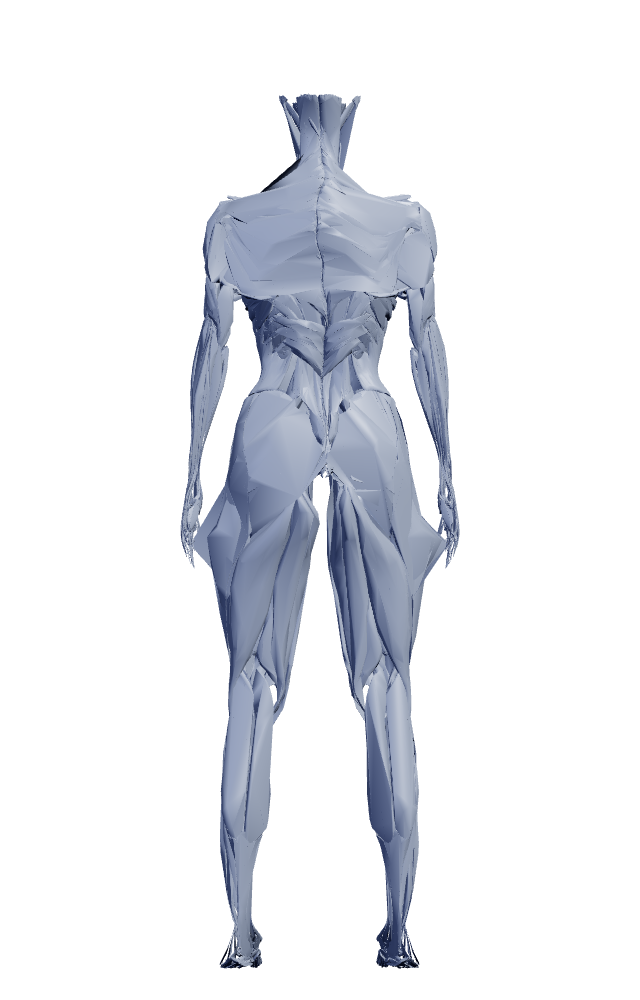
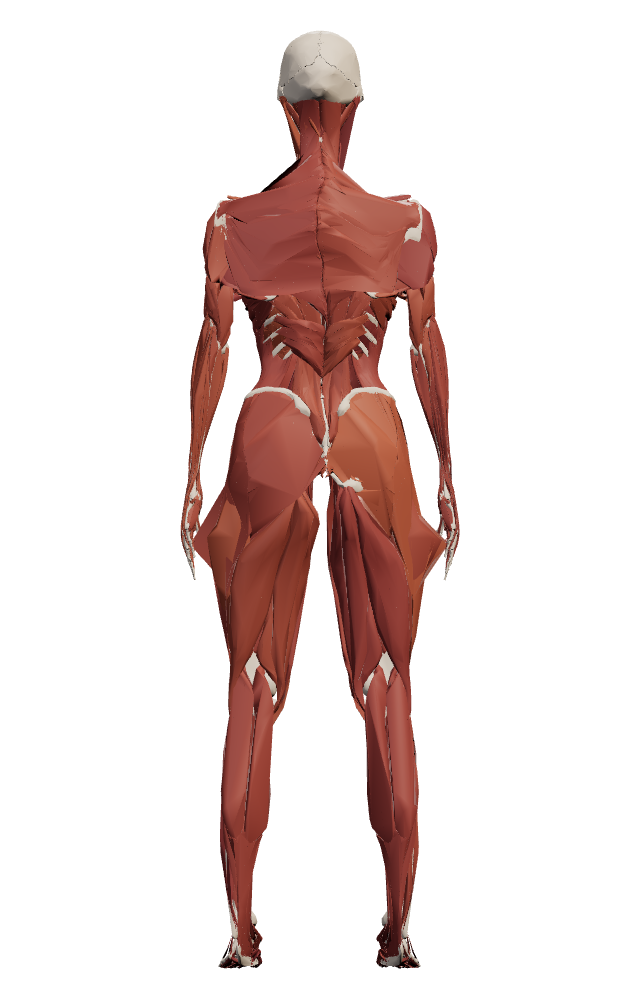
Figura de anatomía más real en Monitoreo y en la guía de la banda
- Capa base re-dibujada: músculos en color natural, esqueleto marfil donde asoma
  (cráneo, rodillas, manos, pies) y luz de estudio. Máscaras sin cambios.
- La figura femenina del atlas viene deformada: la 2D usa la masculina para todos.
- render-anatomia.html con el estilo nuevo.

Claude-Session: https://claude.ai/code/session_01SLsSoYHpjWGpCWsyzmzaVo

Changed region(s): [[0.2812, 0.031, 0.7188, 0.992]]

diff --git a/astra-fit/publicar/herramientas/render-anatomia.html b/astra-fit/publicar/herramientas/render-anatomia.html
@@ -19,20 +19,27 @@ const modelos = {};
 async function cargar(sexo) {
   if (modelos[sexo]) return modelos[sexo];
   const g = await new Promise((ok, mal) => new GLTFLoader().setMeshoptDecoder(MeshoptDecoder).load('/assets/anatomy-' + (sexo === 'F' ? 'female' : 'male') + '.glb', ok, undefined, mal));
-  const raiz = g.scene, mallas = [];
+  const raiz = g.scene, mallas = [], huesos = [];
   raiz.updateMatrixWorld(true);
   raiz.traverse((o) => {
     if (!o.isMesh) return;
     let sis = ''; for (let n = o; n; n = n.parent) if (['skin', 'skeleton', 'muscles', 'organs', 'vessels', 'nerves'].includes(n.name)) { sis = n.name; break; }
+    if (sis === 'skeleton') { if (!o.geometry.attributes.normal) o.geometry.computeVertexNormals(); o.visible = false; huesos.push(o); return; }
     if (sis !== 'muscles') { o.visible = false; return; }
     if (!o.geometry.attributes.normal) o.geometry.computeVertexNormals();
     const nombre = o.name.replace(/_\d+$/, ''), pref = Object.keys(GRUPO_DE).find((k) => nombre.startsWith(k));
     mallas.push({ o, grupo: pref ? GRUPO_DE[pref] : null });
   });
-  modelos[sexo] = { raiz, mallas }; return modelos[sexo];
+  // Color natural de cada músculo: el mismo tono con una leve variación, para que se distingan unos de otros
+  mallas.forEach((m, i) => { const r = Math.sin(i * 12.9898) * 43758.5453; const k = (r - Math.floor(r)) * 2 - 1;
+    m.natural = new THREE.MeshStandardMaterial({ color: new THREE.Color(0xa65a4e).offsetHSL(k * .012, k * .05, k * .035), roughness: .55, metalness: 0 }); });
+  modelos[sexo] = { raiz, mallas, huesos }; return modelos[sexo];
 }
 
+// Capa base "realista": músculos en su color natural (rojo apagado) y esqueleto marfil donde asoma (cráneo, manos, pies,
+// rodillas). Así la figura se lee como un atlas de anatomía y no como un maniquí. Las máscaras no cambian.
 const matBase = new THREE.MeshStandardMaterial({ color: 0x9eaac2, roughness: .46, metalness: .08 });
+const matHueso = new THREE.MeshStandardMaterial({ color: 0xe6dccb, roughness: .62, metalness: 0 });
 const matMasc = new THREE.MeshBasicMaterial({ color: 0xffffff });
 
 // Músculos de la escala ERDM-A. El modelo junta bíceps y tríceps ("upper_arm") y gastrocnemio y sóleo ("calf"):
@@ -40,7 +47,7 @@ const matMasc = new THREE.MeshBasicMaterial({ color: 0xffffff });
 // (arriba gastrocnemio, abajo sóleo), que es una aproximación visual, no anatómica exacta.
 const ERDM = { biceps: ['brazo'], triceps: ['brazo'], antebrazo: ['antebrazo'], cuadriceps: ['quad'], gastrocnemio: ['gastro', 'arriba'], soleo: ['gastro', 'abajo'] };
 window.dibujar = async (sexo, vista, modoPedido) => {      // modo: 'base', un grupo ('quad', 'glute', 'gastro', 'back', 'brazo', 'antebrazo') o un músculo de ERDM
-  const { raiz, mallas } = await cargar(sexo);
+  const { raiz, mallas, huesos } = await cargar(sexo);
   const [modo, mitad] = ERDM[modoPedido] || [modoPedido];
   renderer.clippingPlanes = [];
   if (mitad) {   // plano horizontal a media altura de la pantorrilla
@@ -49,19 +56,22 @@ window.dibujar = async (sexo, vista, modoPedido) => {      // modo: 'base', un g
     renderer.clippingPlanes = [mitad === 'arriba' ? new THREE.Plane(new THREE.Vector3(0, 1, 0), -y) : new THREE.Plane(new THREE.Vector3(0, -1, 0), y)];
   }
   const escena = new THREE.Scene(); escena.add(raiz);
-  mallas.forEach(({ o, grupo }) => { o.visible = modo === 'base' ? true : grupo === modo; o.material = modo === 'base' ? matBase : matMasc; });
+  mallas.forEach((m) => { const { o, grupo } = m; o.visible = modo === 'base' ? true : grupo === modo; o.material = modo === 'base' ? m.natural : matMasc; });
+  huesos.forEach((o) => { o.material = matHueso; o.visible = false; });
   // Encuadre fijo: el de todos los músculos, igual en todas las imágenes
   const caja = new THREE.Box3(); mallas.forEach(({ o }) => { o.visible = true; });
   caja.setFromObject(raiz); mallas.forEach(({ o, grupo }) => { o.visible = modo === 'base' ? true : grupo === modo; });
+  if (modo === 'base') huesos.forEach((o) => { o.visible = true; });
   const centro = caja.getCenter(new THREE.Vector3()), alto = (caja.max.y - caja.min.y) * 1.06, ancho = alto * (W / H);
   const cam = new THREE.OrthographicCamera(-ancho / 2, ancho / 2, alto / 2, -alto / 2, .01, 100);
   const lado = vista === 'back' ? -1 : 1;
   cam.position.set(centro.x, centro.y, centro.z + lado * 10); cam.lookAt(centro.x, centro.y, centro.z);
   if (modo === 'base') {
-    escena.add(new THREE.HemisphereLight(0xffffff, 0x4d587a, .62));
-    const clave = new THREE.DirectionalLight(0xffffff, 3.0); clave.position.set(-2.5, 4, lado * 4); escena.add(clave);
-    const relleno = new THREE.DirectionalLight(0xa9bcff, .55); relleno.position.set(3, 1, lado * 3); escena.add(relleno);
-    const borde = new THREE.DirectionalLight(0xdfe8ff, 1.5); borde.position.set(0, 2, -lado * 5); escena.add(borde);
+    // Luz de estudio: principal cálida arriba a la izquierda, relleno frío suave y un contorno por detrás
+    escena.add(new THREE.HemisphereLight(0xfff6ee, 0x3a3030, .75));
+    const clave = new THREE.DirectionalLight(0xfff1e6, 2.6); clave.position.set(-2.5, 4, lado * 4); escena.add(clave);
+    const relleno = new THREE.DirectionalLight(0xdfe8ff, .55); relleno.position.set(3, 1, lado * 3); escena.add(relleno);
+    const borde = new THREE.DirectionalLight(0xffffff, 1.6); borde.position.set(0, 2, -lado * 5); escena.add(borde);
   }
   renderer.render(escena, cam);
   escena.remove(raiz);

diff --git a/astra-fit/apps-script/SeccionMonitoreo.html b/astra-fit/apps-script/SeccionMonitoreo.html
@@ -136,11 +136,15 @@
   let chipsY = {};          // centro de cada etiqueta, en unidades del SVG (lo fija acomodarChips)
   const guias = {};         // línea punteada de cada músculo hacia su etiqueta
   const extremos = {};      // dónde está la luz del sensor de cada músculo (unidades del SVG)
-  window.FiguraMon = { BASE_IMG, BANDAS, MUSCULOS, ARCHIVO_VISTA, COLOR_RIESGO, nivel: (g) => nivelDe(g).nivel };
+  /* Figura de anatomía: la misma para todos. El modelo femenino del atlas (open-anatomy-3d) trae los muslos y los hombros
+     deformados, así que se usa la figura masculina, que es la de referencia de los atlas. sexoFigura solo recuerda para
+     qué astronauta se dibujó. */
+  const FIGURA = 'M';
+  window.FiguraMon = { BASE_IMG, BANDAS, MUSCULOS, ARCHIVO_VISTA, COLOR_RIESGO, FIGURA, nivel: (g) => nivelDe(g).nivel };
 
   function dibujarCuerpo(sexo) {
-    const sx = String(sexo).toUpperCase() === 'F' ? 'F' : 'M', p = sx.toLowerCase();
-    sexoFigura = sx;
+    const sx = FIGURA, p = sx.toLowerCase();
+    sexoFigura = String(sexo).toUpperCase() === 'F' ? 'F' : 'M';
     const svg = $('mon-svg');
     svg.innerHTML = '';
     const defs = el('defs', {}); svg.appendChild(defs);
@@ -197,7 +201,7 @@
     const k = H / 580;   // píxeles por unidad del SVG
     ['anterior', 'posterior'].forEach((vista) => {
       const chips = Object.entries(MUSCULOS).filter(([, m]) => m.vista === vista)
-        .map(([g, m]) => ({ g, n: document.querySelector(`.mon-chip[data-grupo="${g}"]`), y: aY(BANDAS[sexoFigura][m.mascara].y) * k }))
+        .map(([g, m]) => ({ g, n: document.querySelector(`.mon-chip[data-grupo="${g}"]`), y: aY(BANDAS[FIGURA][m.mascara].y) * k }))
         .sort((p, q) => p.y - q.y);
       chips.forEach((c) => { c.h = c.n.offsetHeight; });
       let abajo = -Infinity;

diff --git a/astra-fit/apps-script/SeccionSensores.html b/astra-fit/apps-script/SeccionSensores.html
@@ -148,7 +148,7 @@
     const svg = $('guia-svg'), F = window.FiguraMon;
     svg.querySelectorAll(':scope > :not(desc)').forEach((n) => n.remove());
     if (!F) return;
-    const m = F.MUSCULOS[grupo], sx = String((Sesion.astronauta || {}).sexo).toUpperCase() === 'F' ? 'F' : 'M', p = sx.toLowerCase();
+    const m = F.MUSCULOS[grupo], sx = F.FIGURA || 'M', p = sx.toLowerCase();
     const b = F.BANDAS[sx][m.mascara];
     // Coordenadas de la imagen (640 × 1000). Ventana de 290 × 348 centrada en la banda: se ve el músculo y su segmento.
     const cx = (b.x0 + b.x1) / 2 * 640, cy = b.y * 1000, ancho = (b.x1 - b.x0) * 640;

diff --git a/docs/equipo/NOTAS.md b/docs/equipo/NOTAS.md
@@ -39,6 +39,7 @@
 | astra-fit/apps-script/SeccionCuerpo.html | Claude (a pedido de Daniel) | **Astronauta propio**: el personaje se arma con piezas rígidas (casco con visor dorado, torso, mochila, brazos, piernas, botas) pegadas a cada hueso del esqueleto Xbot, así que camina sin deformarse. Las franjas toman el color del avatar del perfil. Ya no se baja `astronaut.glb` ni el decodificador Draco en esta sección (Destinos sí los usa). Camina de inicio. Al abrir se bajan 4,6 MB. |
 | astra-fit/apps-script/JsAnimacionCuerpo.html (nuevo), Index.html | Claude (a pedido de Daniel) | Anima la figura de anatomía de Monitoreo sin tocar `SeccionMonitoreo.html`: inclinación 3D con el cursor y vaivén, halo por músculo, línea de escaneo, guía animada. Se apaga con "reducir movimiento". |
 
+| **Rama `anatomia-realista` (14 nov, Dani con Claude)** | Claude (a pedido de Dani) | **Figura de Monitoreo y de la guía de la banda más real**: la capa base (`assets/anatomia2d/*-base.png`) se volvió a dibujar con los músculos en su color natural (rojo apagado, con leve variación entre músculos), el esqueleto marfil donde asoma (cráneo, rodillas, manos, pies) y luz de estudio. Las máscaras no cambian (mismo encuadre). El modelo femenino del atlas trae muslos y hombros deformados, así que la figura 2D usa la masculina para todos (`FIGURA = 'M'` en SeccionMonitoreo, también en la guía). `render-anatomia.html` tiene el estilo nuevo. **Hay que volver a publicar en Cloudflare** para que suban las imágenes. |
 | **Rama `panel-orden-bandas` (14 nov, Dani con Claude)** | Claude (a pedido de Dani) | **Orden del panel**: Perfil, Destinos, Monitoreo, Cuerpo, Evolución, Alertas. El panel abre en el Perfil. La vista "Hoy" se une al Perfil como "Estado de hoy" (`SeccionHoy`, incluida por `SeccionInicio` debajo del encabezado); su cuarto indicador pasa de "Día de misión" (ya está arriba) a "Músculos en riesgo". En el celular las seis vistas caben en la barra inferior y "Más" se oculta. Los enlaces viejos `#hoy` y `#sensores` llevan a Perfil y Monitoreo. **Monitoreo**: las etiquetas de la figura se acomodan midiendo su alto real, ya no se enciman; la tarjeta de la figura es un poco más ancha. **Bandas deja de ser vista**: al tocar un músculo (figura, etiqueta o lista en el celular) se abre la guía de su banda (`SeccionSensores.html`, ahora dentro del Monitoreo): estado y batería, postura, 5 pasos con animación sobre la anatomía (piel, punto SENIAM, electrodos a 20 mm, banda, calibración) y qué mide (EMG, IMU, fuerza). "Ver señales y medir" abre el detalle; en el detalle, "Cómo ponerse la banda" vuelve a la guía. Lo general de las bandas (señales, microgravedad, especificaciones, límites) queda plegado al final del Monitoreo. |
 
 | **Rama `ajustes-perfil-alertas` (14 nov, Dani con Claude)** | Claude (a pedido de Dani) | **Perfil**: "Mano dominante: Derecha" pasa a "Lateralidad: Diestra/Zurda" (también en el formulario; el campo sigue siendo `mano_dominante`). "Circunferencia de pantorrilla" en Última actualización pasa a "Diámetro muscular", con pantorrilla y muslo. **Alertas** (ya iba antes de Cuerpo, por #11): cada alerta se muestra como nota clínica breve con `Erdm.notaHtml`: músculo, puntaje, hallazgos alterados frente a la basal y una línea de conducta. Se quitan la lista de acciones por nivel y la etiqueta "Recomendación"; el plan por músculo pasa a una tabla "Pauta de ejercicio"; prioritaria y protocolo quedan plegados en "Criterios de la escala". Las alertas nuevas (`Erdm.alertas`) y las de ejemplo (`datos-ejemplo.json`, `DatosEjemplo.gs`, `hojas-csv/Alertas.csv`) usan el mismo tono. El Estado de hoy usa la misma nota. **Monitoreo**: se quita el plegable "Cómo funcionan las bandas" (ya está en la guía emergente). |
